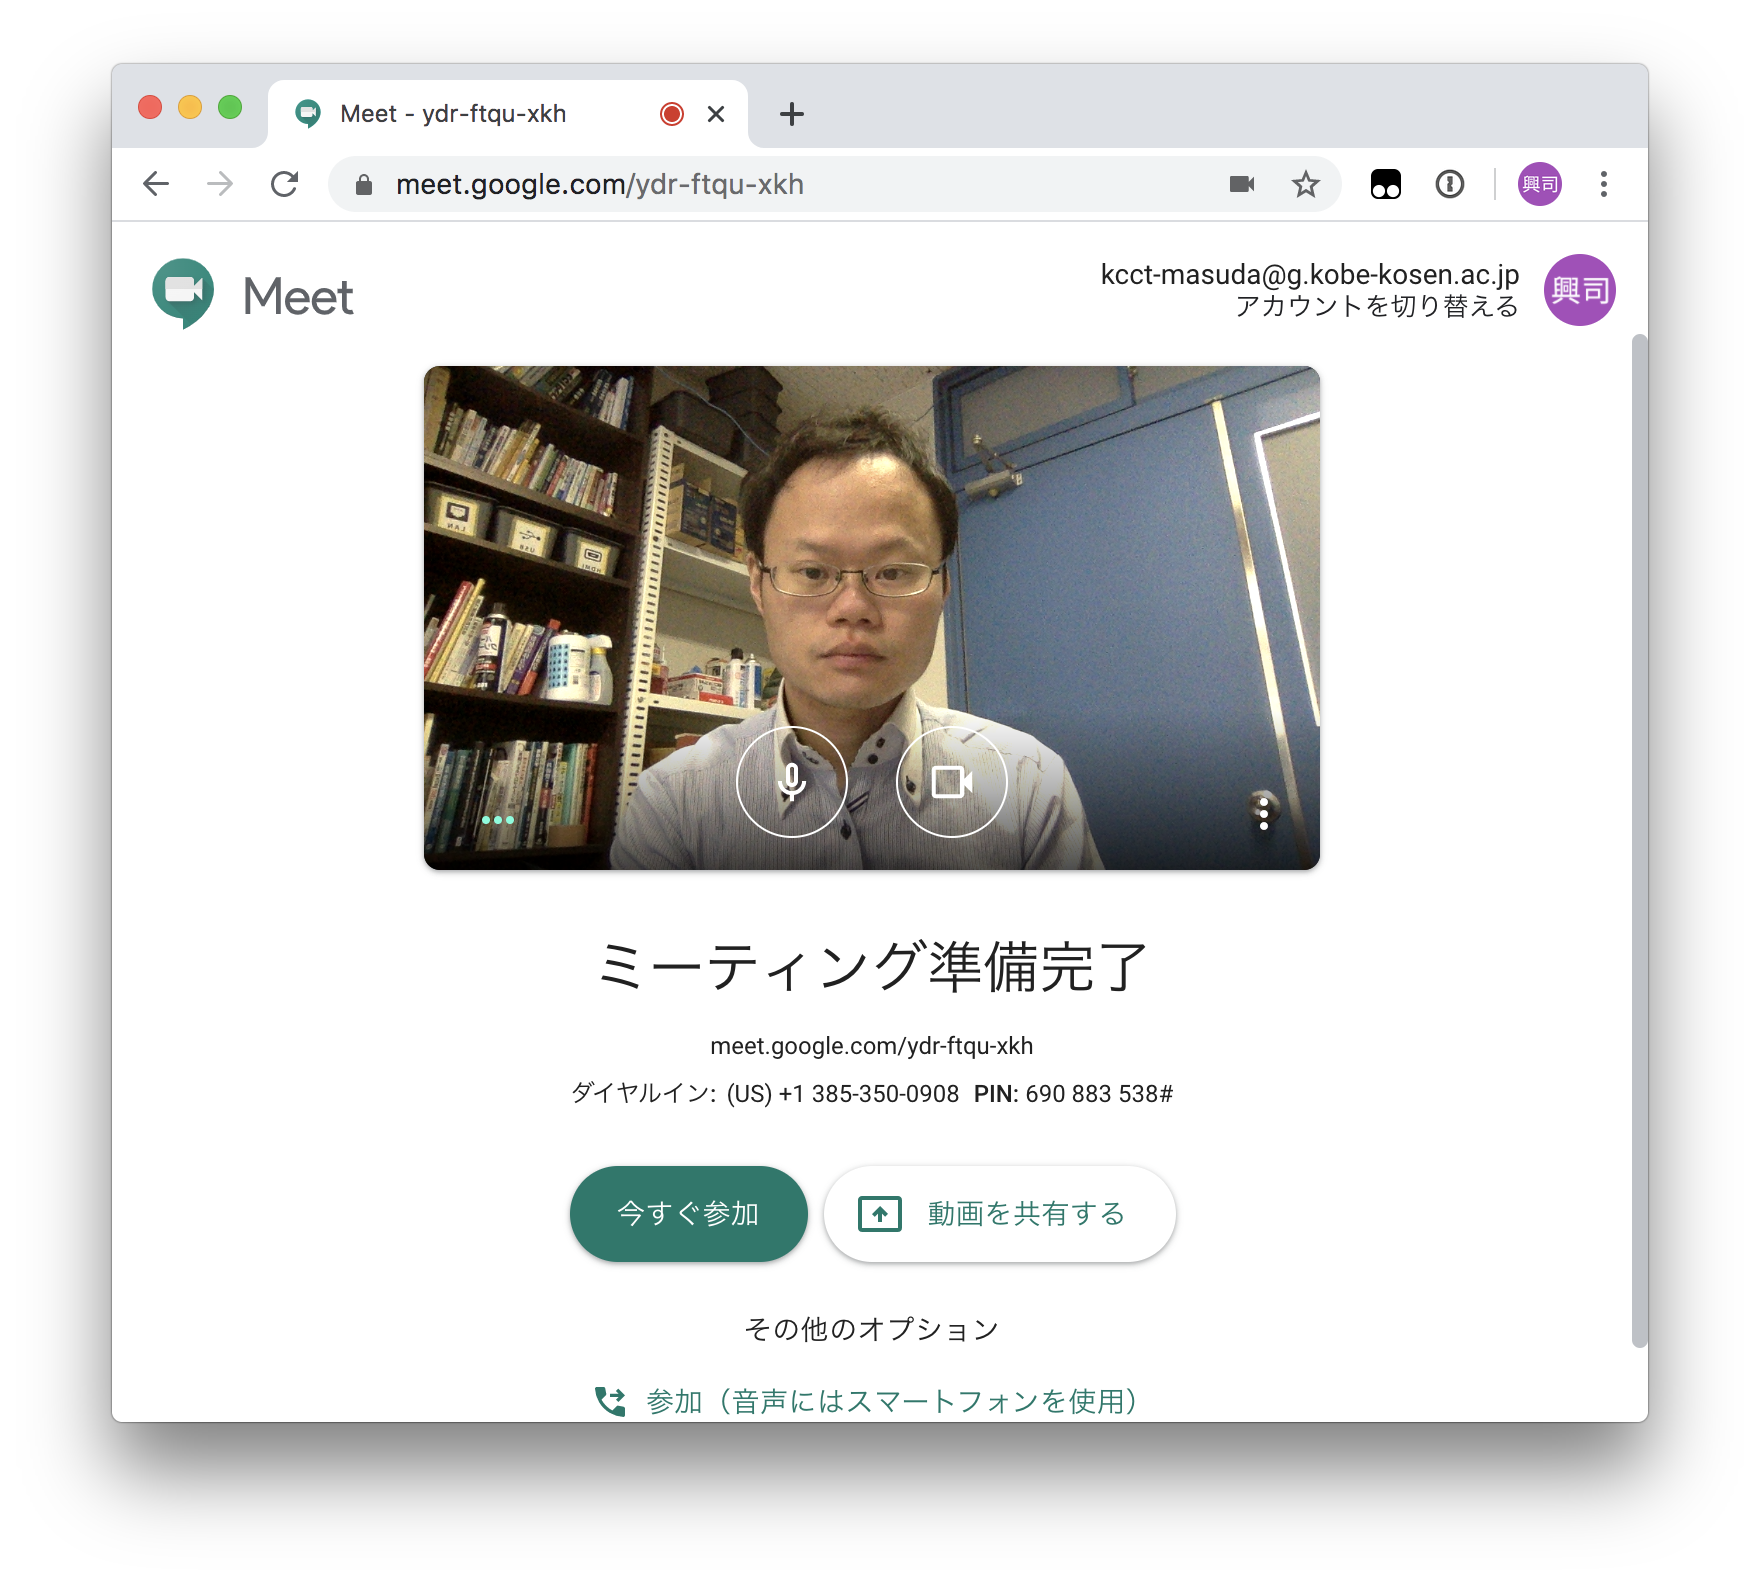
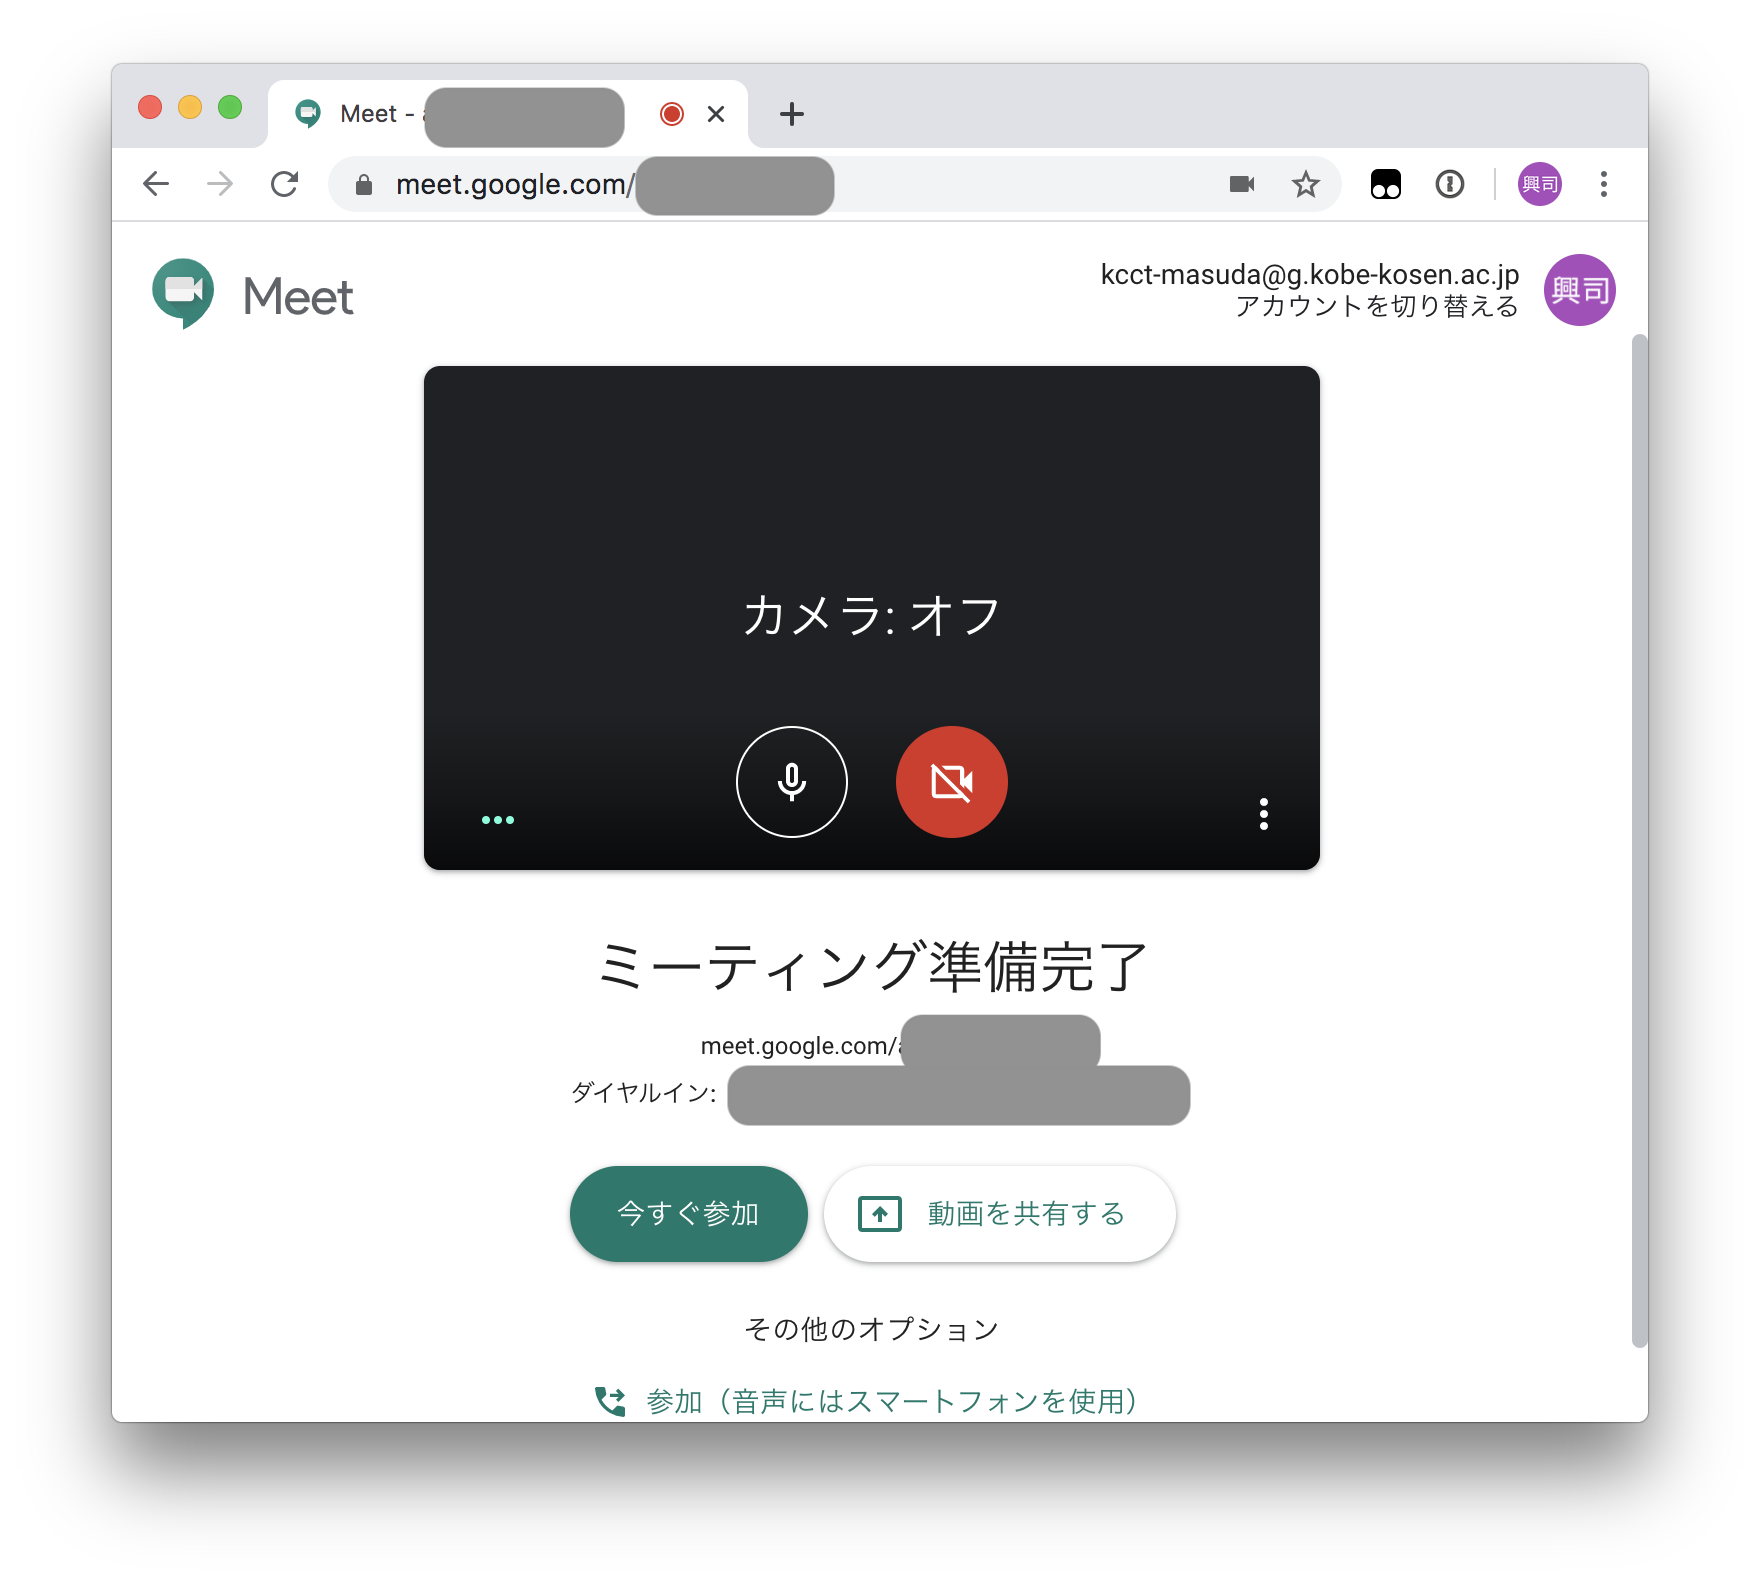
add post start-meeting

Changed region(s): [[0.2188, 0.2168, 0.75, 0.5575], [0.4062, 0.6195, 0.6875, 0.7124], [0.2188, 0.031, 0.5, 0.1549]]

diff --git a/content/posts/Start-Meeting.md b/content/posts/Start-Meeting.md
@@ -1,17 +1,46 @@
 ---
-title: '会議を始める'
+title: "ミーティングを始める"
 date: 2020-04-03
+draft: false
 tags: 
   - student
   - teacher
 ---
 
+## 遠隔ミーティング
+Google Hangouts Meetが学生とのディスカッションや教員間のミーティングなどに活用できます。導入方法などは[Google Hangouts Meetの導入方法]({{< ref "introduction-of-google-hangouts-meet.md" >}})を参考にしてください。
 
 
-![This is a image](1.png)
-![This is a image](2.png)
-![This is a image](3.png)
-![This is a image](4.png)
-![This is a image](5.png)
-![This is a image](6.png)
+## ミーティングを立ち上げる
+自分でミーティングを立ち上げて、他の人を招待する場合について説明します。
+招待されたミーティングに参加する方法は[招待されたミーティングに参加する]({{< ref "join-meeting.md" >}})を参考にしてください。
+
+
+学校から配布されたGoogleアカウントでログインしているか確かめた上で、[Google Hangouts Meet](https://meet.google.com)にアクセスしてください。
+
+{{< figure src="1.png" title="「ミーティングに参加または開始」をクリック" class="center" >}}
+{{< figure src="2.png" title="自分でミーティングコードを設定する場合は入力してください。空白のままでも構いません。" class="center" >}}
+{{< figure src="3.png" title="ミーティングルームが立ち上がりました。まだ、参加はしていません。マイクとカメラが有効になっているか確認してください。「今すぐ参加」を　クリックするとミーティングに参加出来ます。" class="center" >}}
+
+## ミーティングにメンバーを招待する
+立ち上げたミーティングに人を招待する場合、ミーティングのアドレスを伝えて参加してもらうか、一人一人招待を送るかになります。
+
+少人数の場合、一人一人招待しても良いですが、参加者が多い場合にはアドレスを伝える方が良いかと思います。
+
+
+{{< figure src="4.png" title="ミーティングのURLが表示されます。これをメールなどで送ってもメンバーを招待できます。一人づつ招待する場合は「ユーザーを追加」をクリックします。" class="center" >}}
+{{< figure src="5.png" title="招待したい人のメールアドレスを入力します。" class="center" >}}
+
+
+## ミーティング中の操作
+ミーティング中の詳細な操作は[招待されたミーティングに参加する]({{< ref "join-meeting.md" >}})を参考にしてください。
+
+
+
+## 自分のPCの画面を共有
+参加者に自分のPCの画面を共有することができます。デスクトップ全体を共有するか、アプリケーションのウィンドウ単位で共有するか選択できます。ミーティング資料のPDFを表示させたり（Acrobat Readerなど）、講義資料を表示させたり（PowerPointなど）できます。
+
+{{< figure src="6.png" title="「あなたの全画面」か「ウィンドウ」を選択してください" class="center" >}}
+
+
 
